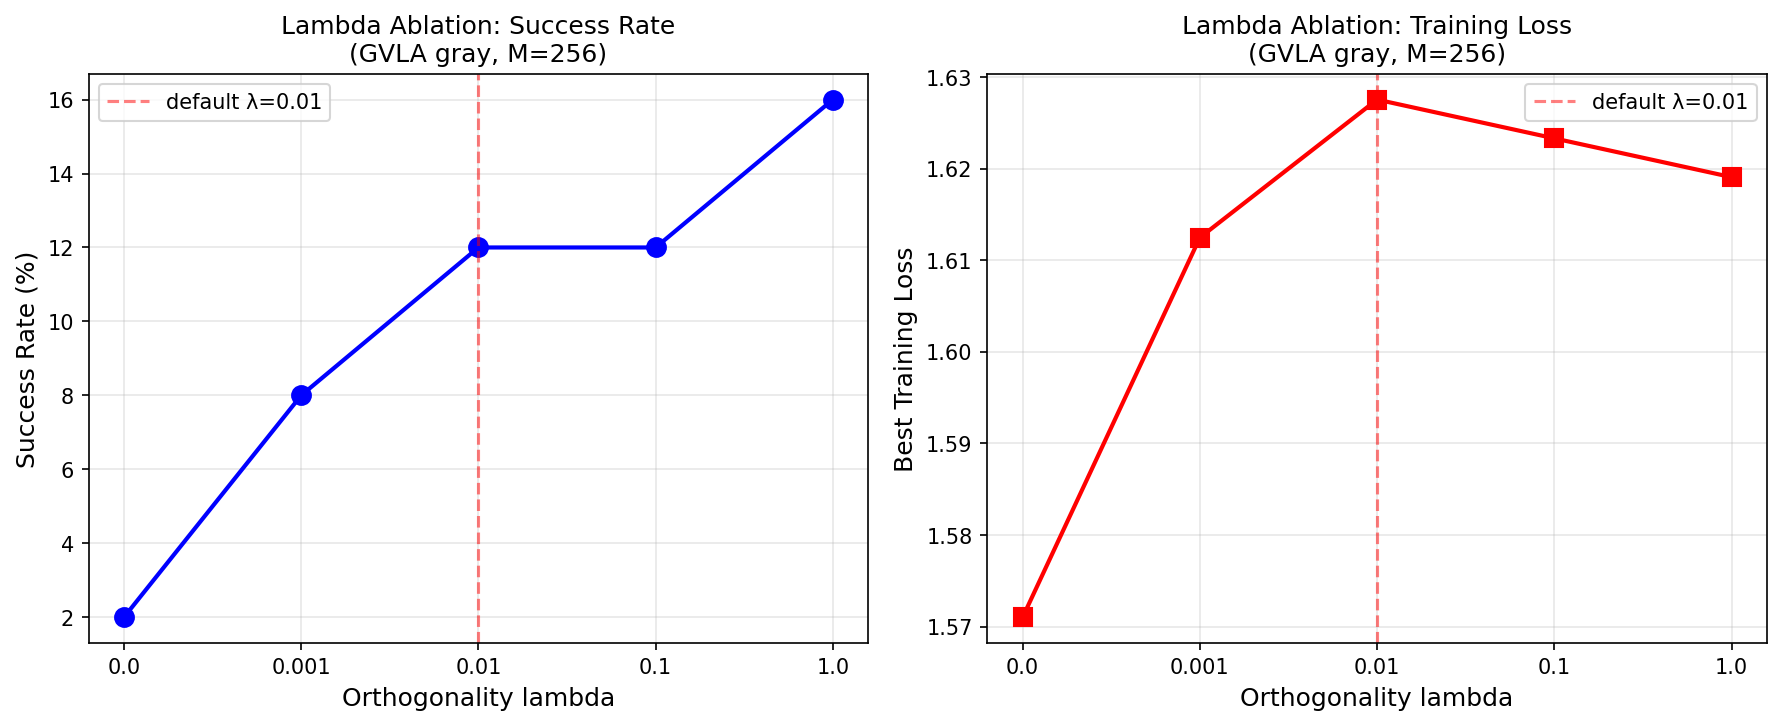
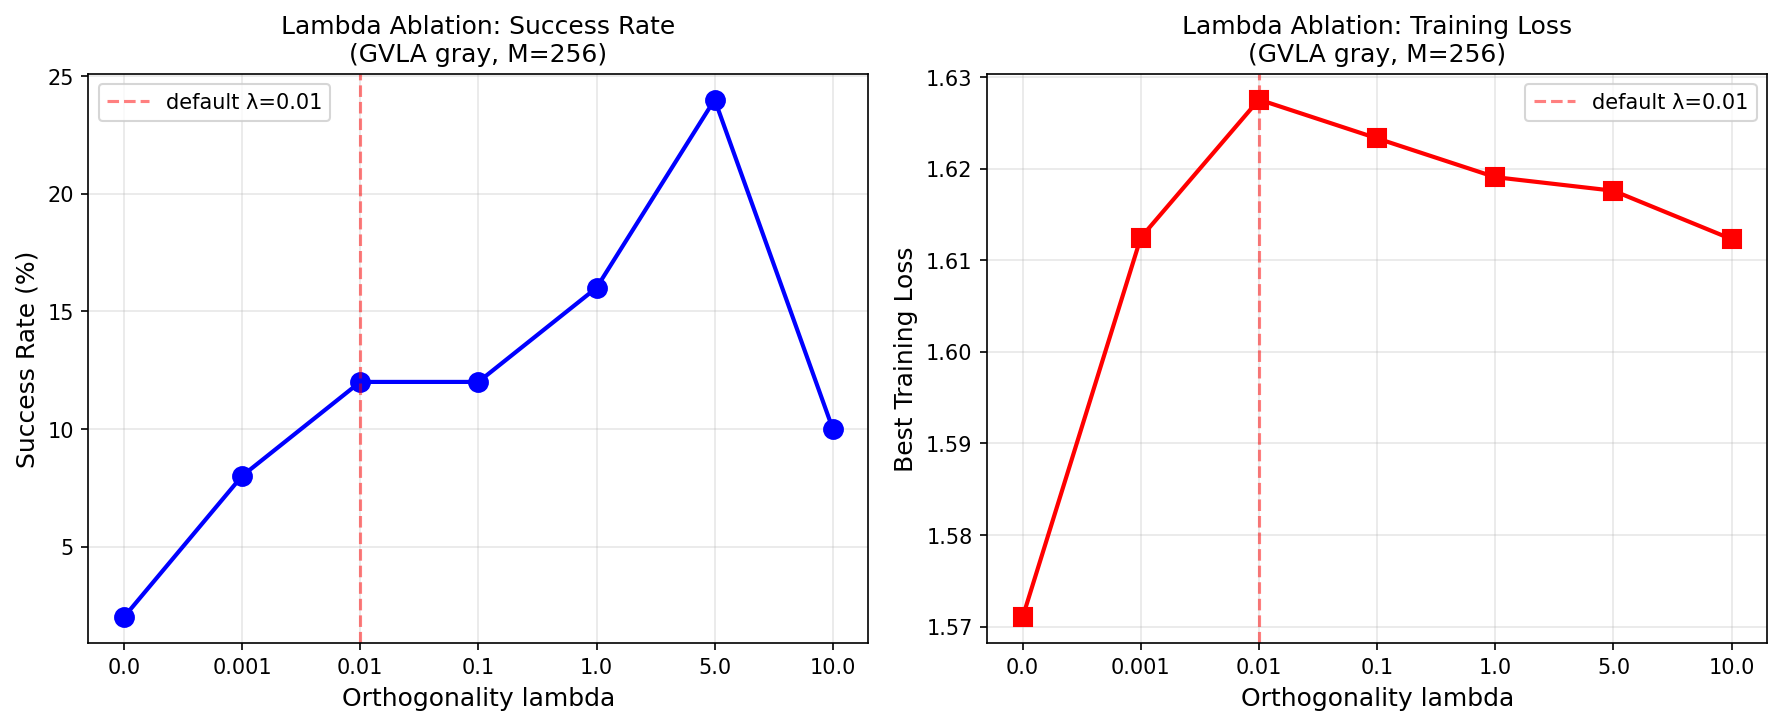
Add precision validation summary and lambda updates

diff --git a/experiments/robosuite_quantization_study.py b/experiments/robosuite_quantization_study.py
@@ -416,6 +416,35 @@ class ScriptedPickPlaceCanPolicy:
         return action
 
 
+class ScriptedPickPlaceCanPrecisionPolicy(ScriptedPickPlaceCanPolicy):
+    """
+    A stricter PickPlace controller that aims for a much tighter final placement.
+
+    The main differences from the default can policy are:
+      - smaller XY tolerances during transport / placement
+      - lower final placement height to force finer corrections near the bin
+      - gentler final controller gain to avoid overshooting the target area
+    """
+
+    def __init__(self,
+                 transport_xy_thresh: float = 0.012,
+                 place_height: float = 0.07,
+                 kp_place: float = 6.0):
+        super().__init__(
+            hover_height=0.14,
+            bin_hover_height=0.20,
+            place_height=place_height,
+            grasp_xy_thresh=0.018,
+            grasp_z_thresh=0.012,
+            place_xy_thresh=transport_xy_thresh,
+            lift_delta=0.16,
+            grasp_steps=12,
+            release_steps=10,
+            kp_move=10.0,
+            kp_place=kp_place,
+        )
+
+
 # =========================================================
 # Quantisation Utilities
 # =========================================================
@@ -499,22 +528,57 @@ def decode_action(action: np.ndarray, n_bins,
 # Rollout & Success Rate
 # =========================================================
 
-def make_policy(task: str):
+def make_policy(task: str,
+                precision_transport_xy_thresh: float = 0.012,
+                precision_place_height: float = 0.07,
+                precision_kp_place: float = 6.0):
     if task == "lift":
         return ScriptedLiftPolicy()
     if task == "nut_assembly_square":
         return ScriptedNutAssemblySquarePolicy()
     if task == "pick_place_can":
         return ScriptedPickPlaceCanPolicy()
+    if task == "pick_place_can_precision":
+        return ScriptedPickPlaceCanPrecisionPolicy(
+            transport_xy_thresh=precision_transport_xy_thresh,
+            place_height=precision_place_height,
+            kp_place=precision_kp_place,
+        )
     raise ValueError(f"Unsupported task: {task}")
 
 
+def is_success(env, obs: dict, reward_accum: float, task: str, policy,
+               precision_xy_tol: float = 0.018,
+               precision_release_clearance: float = 0.07) -> bool:
+    if task != "pick_place_can_precision":
+        return reward_accum > 0
+
+    obj_pos = np.array(obs["Can_pos"])
+    target_bin = np.array(env.target_bin_placements[env.object_id])
+    eef_pos = np.array(obs["robot0_eef_pos"])
+
+    xy_err = np.linalg.norm(obj_pos[:2] - target_bin[:2])
+    eef_clear = eef_pos[2] - obj_pos[2]
+
+    # Precision success is stricter than the default task: the object must
+    # have been successfully placed in the bin and end up close to the bin
+    # center in XY after the gripper has retreated.
+    return (
+        reward_accum > 0
+        and xy_err < precision_xy_tol
+        and eef_clear > precision_release_clearance
+        and policy.phase in ("retreat", "done")
+    )
+
+
 def run_one_rollout(env, policy,
-                    n_bins, max_steps: int, seed: int,
+                    n_bins, max_steps: int, seed: int, task: str,
                     decode_mode: str = "gvla",
                     ar_token_bins: int = 256,
                     token_latency_ms: float = 0.0,
-                    token_error_prob: float = 0.0) -> bool:
+                    token_error_prob: float = 0.0,
+                    precision_xy_tol: float = 0.018,
+                    precision_release_clearance: float = 0.07) -> bool:
     """
     Run one episode.  n_bins=None → continuous (no quantisation).
     Returns True if cube lifted (reward > 0).
@@ -536,13 +600,21 @@ def run_one_rollout(env, policy,
         for _ in range(stale_steps):
             obs, reward, done, _ = env.step(prev_action)
             reward_accum += reward
-            if done or reward_accum > 0:
+            if done or is_success(
+                env, obs, reward_accum, task, policy,
+                precision_xy_tol=precision_xy_tol,
+                precision_release_clearance=precision_release_clearance,
+            ):
                 return True
 
         obs, reward, done, _ = env.step(action)
         reward_accum += reward
         prev_action = action
-        if done or reward_accum > 0:
+        if done or is_success(
+            env, obs, reward_accum, task, policy,
+            precision_xy_tol=precision_xy_tol,
+            precision_release_clearance=precision_release_clearance,
+        ):
             return True
 
     # A few extra "hold" steps in case cube is still rising
@@ -554,10 +626,18 @@ def run_one_rollout(env, policy,
             else:
                 hold_q = hold
             obs, reward, done, _ = env.step(hold_q)
-            if reward > 0:
+            if is_success(
+                env, obs, reward, task, policy,
+                precision_xy_tol=precision_xy_tol,
+                precision_release_clearance=precision_release_clearance,
+            ):
                 return True
 
-    return reward_accum > 0
+    return is_success(
+        env, obs, reward_accum, task, policy,
+        precision_xy_tol=precision_xy_tol,
+        precision_release_clearance=precision_release_clearance,
+    )
 
 
 def measure_success_rate(env, task: str, n_bins, n_rollouts: int,
@@ -565,17 +645,29 @@ def measure_success_rate(env, task: str, n_bins, n_rollouts: int,
                          decode_mode: str = "gvla",
                          ar_token_bins: int = 256,
                          token_latency_ms: float = 0.0,
-                         token_error_prob: float = 0.0) -> float:
+                         token_error_prob: float = 0.0,
+                         precision_xy_tol: float = 0.018,
+                         precision_release_clearance: float = 0.07,
+                         precision_transport_xy_thresh: float = 0.012,
+                         precision_place_height: float = 0.07,
+                         precision_kp_place: float = 6.0) -> float:
     """Success rate over n_rollouts seeds."""
     successes = 0
     for seed in range(n_rollouts):
-        policy = make_policy(task)
+        policy = make_policy(
+            task,
+            precision_transport_xy_thresh=precision_transport_xy_thresh,
+            precision_place_height=precision_place_height,
+            precision_kp_place=precision_kp_place,
+        )
         if run_one_rollout(
-            env, policy, n_bins, max_steps, seed,
+            env, policy, n_bins, max_steps, seed, task,
             decode_mode=decode_mode,
             ar_token_bins=ar_token_bins,
             token_latency_ms=token_latency_ms,
             token_error_prob=token_error_prob,
+            precision_xy_tol=precision_xy_tol,
+            precision_release_clearance=precision_release_clearance,
         ):
             successes += 1
     return successes / n_rollouts
@@ -758,7 +850,7 @@ def plot_results(success_results: dict, latency_results: dict,
 def main():
     parser = argparse.ArgumentParser(description="Robosuite Quantisation Study")
     parser.add_argument("--task", type=str, default="lift",
-                        choices=["lift", "nut_assembly_square", "pick_place_can"],
+                        choices=["lift", "nut_assembly_square", "pick_place_can", "pick_place_can_precision"],
                         help="Robosuite task to evaluate")
     parser.add_argument("--decode_mode", type=str, default="gvla",
                         choices=["gvla", "ar_tokens"],
@@ -784,6 +876,21 @@ def main():
                         help="Skip latency measurement (env-only run)")
     parser.add_argument("--skip_rollout", action="store_true",
                         help="Skip rollout measurement (latency-only run)")
+    parser.add_argument("--precision_level", type=str, default="easy",
+                        choices=["easy", "medium", "hard", "very_hard", "custom"],
+                        help="Preset difficulty for pick_place_can_precision")
+    parser.add_argument("--precision_xy_tol", type=float, default=None,
+                        help="Final XY tolerance for precision success; overrides preset when set")
+    parser.add_argument("--precision_release_clearance", type=float, default=None,
+                        help="Required gripper retreat clearance for precision success")
+    parser.add_argument("--precision_transport_xy_thresh", type=float, default=None,
+                        help="Intermediate transport / placement XY threshold for the precision policy")
+    parser.add_argument("--precision_place_height", type=float, default=None,
+                        help="Final placement height target for the precision policy")
+    parser.add_argument("--precision_kp_place", type=float, default=None,
+                        help="Final placement proportional gain for the precision policy")
+    parser.add_argument("--bins", type=str, nargs="+", default=None,
+                        help="Optional subset of bins to evaluate, e.g. inf 256 1024 2048")
     args = parser.parse_args()
 
     save_dir = Path(args.save_dir)
@@ -793,11 +900,42 @@ def main():
     print(f"Task: {args.task}")
     print(f"Decode mode: {args.decode_mode}")
 
+    precision_presets = {
+        "easy": dict(xy_tol=0.018, release_clearance=0.07, transport_xy_thresh=0.012, place_height=0.07, kp_place=6.0),
+        "medium": dict(xy_tol=0.014, release_clearance=0.075, transport_xy_thresh=0.010, place_height=0.068, kp_place=5.6),
+        "hard": dict(xy_tol=0.010, release_clearance=0.08, transport_xy_thresh=0.008, place_height=0.066, kp_place=5.0),
+        "very_hard": dict(xy_tol=0.006, release_clearance=0.085, transport_xy_thresh=0.006, place_height=0.064, kp_place=4.5),
+        "custom": dict(xy_tol=0.018, release_clearance=0.07, transport_xy_thresh=0.012, place_height=0.07, kp_place=6.0),
+    }
+    precision_cfg = dict(precision_presets[args.precision_level])
+    if args.precision_xy_tol is not None:
+        precision_cfg["xy_tol"] = args.precision_xy_tol
+    if args.precision_release_clearance is not None:
+        precision_cfg["release_clearance"] = args.precision_release_clearance
+    if args.precision_transport_xy_thresh is not None:
+        precision_cfg["transport_xy_thresh"] = args.precision_transport_xy_thresh
+    if args.precision_place_height is not None:
+        precision_cfg["place_height"] = args.precision_place_height
+    if args.precision_kp_place is not None:
+        precision_cfg["kp_place"] = args.precision_kp_place
+
     # ---- Bins to sweep ----
-    if args.decode_mode == "ar_tokens":
+    evaluate_continuous = True
+    if args.bins is not None:
+        requested_bins = []
+        evaluate_continuous = False
+        for token in args.bins:
+            if token.lower() in {"inf", "continuous"}:
+                evaluate_continuous = True
+            else:
+                requested_bins.append(int(token))
+        M_bins_sweep = requested_bins
+    elif args.decode_mode == "ar_tokens":
         M_bins_sweep = [args.ar_token_bins]
     elif args.task == "pick_place_can":
         M_bins_sweep = [32, 48, 64, 96, 128]
+    elif args.task == "pick_place_can_precision":
+        M_bins_sweep = [32, 48, 64, 96, 128, 192, 256, 384, 512, 768, 1024]
     else:
         M_bins_sweep = [4, 8, 16, 32, 64, 128, 256, 512, 1024]
 
@@ -831,7 +969,7 @@ def main():
             env_name = "Lift"
         elif args.task == "nut_assembly_square":
             env_name = "NutAssemblySquare"
-        elif args.task == "pick_place_can":
+        elif args.task in ("pick_place_can", "pick_place_can_precision"):
             env_name = "PickPlace"
             env_kwargs.update(single_object_mode=2, object_type="can")
         else:
@@ -840,16 +978,22 @@ def main():
         env = suite.make(env_name, **env_kwargs)
 
         # Continuous baseline
-        print(f"\n[Continuous — no quantisation]  ({args.n_rollouts} rollouts)")
-        sr = measure_success_rate(
-            env, args.task, None, args.n_rollouts, args.max_steps,
-            decode_mode=args.decode_mode,
-            ar_token_bins=args.ar_token_bins,
-            token_latency_ms=args.token_latency_ms,
-            token_error_prob=args.token_error_prob,
-        )
-        success_results["inf"] = sr
-        print(f"  → Success rate: {sr * 100:.1f}%")
+        if evaluate_continuous:
+            print(f"\n[Continuous — no quantisation]  ({args.n_rollouts} rollouts)")
+            sr = measure_success_rate(
+                env, args.task, None, args.n_rollouts, args.max_steps,
+                decode_mode=args.decode_mode,
+                ar_token_bins=args.ar_token_bins,
+                token_latency_ms=args.token_latency_ms,
+                token_error_prob=args.token_error_prob,
+                precision_xy_tol=precision_cfg["xy_tol"],
+                precision_release_clearance=precision_cfg["release_clearance"],
+                precision_transport_xy_thresh=precision_cfg["transport_xy_thresh"],
+                precision_place_height=precision_cfg["place_height"],
+                precision_kp_place=precision_cfg["kp_place"],
+            )
+            success_results["inf"] = sr
+            print(f"  → Success rate: {sr * 100:.1f}%")
 
         # Quantised sweep
         for M in M_bins_sweep:
@@ -862,6 +1006,11 @@ def main():
                 ar_token_bins=args.ar_token_bins,
                 token_latency_ms=args.token_latency_ms,
                 token_error_prob=args.token_error_prob,
+                precision_xy_tol=precision_cfg["xy_tol"],
+                precision_release_clearance=precision_cfg["release_clearance"],
+                precision_transport_xy_thresh=precision_cfg["transport_xy_thresh"],
+                precision_place_height=precision_cfg["place_height"],
+                precision_kp_place=precision_cfg["kp_place"],
             )
             success_results[M] = sr
             print(f"  → Success rate: {sr * 100:.1f}%")

diff --git a/experiments/results/bc_study/EXPERIMENTS.md b/experiments/results/bc_study/EXPERIMENTS.md
@@ -121,7 +121,7 @@ action = (bin_idx + 0.5) / M * 2 - 1
 | 2 | Full mode — GPU (A100) | epochs=200, n_rollouts=50 | ✅ 완료 |
 | 3 | Gray Code Ablation — GPU (A100) | epochs=200, n_rollouts=50 | ✅ 완료 |
 | 4 | Batch × M Latency Sweep — GPU (A100) | batch∈{1,8,32,128,512,1024}, M∈{8…65536} | ✅ 완료 |
-| 5 | λ Ablation (ortho reg) — GPU (A100) | λ∈{0,0.001,0.01,0.1,1.0}, M=256, gray | ✅ 완료 |
+| 5 | λ Ablation (ortho reg) — GPU (A100) | λ∈{0,0.001,0.01,0.1,1.0,5.0,10.0}, M=256, gray | ✅ 완료 |
 
 > **Exp 2 vs Exp 3 숫자가 다른 이유:**
 > 실험 3은 실험 2의 체크포인트를 재사용한 게 아니라 **처음부터 전체를 다시 학습했다.**
@@ -366,7 +366,9 @@ L_ortho = sum_{d=1}^{7} ||W_d W_d^T - I||_F^2
 | 0.001 | 8% | 1.6125 | 약한 regularization |
 | 0.01 | 12% | 1.6275 | 현재 default |
 | 0.1 | 12% | 1.6233 | default와 동일 |
-| 1.0 | **16%** | 1.6191 | 가장 좋음 |
+| 1.0 | 16% | 1.6191 | 중간 강도 regularization |
+| 5.0 | **24%** | 1.6176 | 이 ablation의 best |
+| 10.0 | 10% | 1.6123 | 너무 강해서 다시 성능 하락 |
 
 ### 핵심 발견
 
@@ -375,16 +377,34 @@ L_ortho = sum_{d=1}^{7} ||W_d W_d^T - I||_F^2
 regularization 없으면 W의 각 행이 학습 중 같은 방향으로 collapse한다.
 k개 비트가 전부 동일한 정보를 인코딩하게 되어 2^k 개 셀이 아닌 사실상 2개 셀만 사용하는 것과 같아진다.
 
-**λ=1.0이 best지만 통계적으로 아직 약함**
+**중간 강도 regularization에서 sweet spot이 나타난다**
 
-16% = 8/50, 12% = 6/50 → 2번 차이. n=50으로는 유의미한 차이라고 보기 어렵다.
-트렌드(λ 클수록 좋아지는 경향)는 의미 있지만 "λ=1.0이 최적"이라는 주장은 아직 약하다.
+성능은 λ가 커질수록 단조롭게 좋아지지 않는다.
+`0.0 → 2%`, `0.001 → 8%`, `0.01/0.1 → 12%`, `1.0 → 16%`, `5.0 → 24%`까지 올라가다가
+`10.0 → 10%`로 다시 떨어진다.
+
+즉 이 조건에서는 orthogonality regularization이 도움이 되지만, 너무 약해도 부족하고 너무 강해도 과도하다.
+현재 이 ablation에서의 best operating point는 `λ=5.0`이다.
+
+**하지만 default를 바로 바꾸기엔 아직 근거가 좁다**
+
+이 결과는 `Lift + M=256 + gray + n_rollouts=50` 조건에서 얻은 단일 ablation이다.
+따라서 논문/보고용 best setting으로는 `λ=5.0`을 채택할 수 있지만,
+코드 전역 default를 `0.01 → 5.0`으로 즉시 바꾸기엔 아직 검증 범위가 좁다.
+실무적으로는:
+
+- 코드 default는 유지
+- 실험 best setting은 `λ=5.0`으로 명시
+- 필요하면 `M=128/1024`에서도 추가 확인
 
 **training loss vs success rate 역설**
 
 λ=0일 때 training loss가 가장 낮다(1.571).
 그러나 success rate는 최악(2%). orthogonality 없이 loss만 낮추면 W가 collapse해서
 rollout에서는 엉터리 action을 출력한다.
+
+반대로 `λ=10.0`은 best_loss가 비교적 낮지만 success rate는 다시 10%로 떨어진다.
+즉, optimization loss만으로 제어 성능을 예측할 수 없고, 적절한 geometric regularization strength가 따로 존재한다.
 
 ### 논문에 쓸 수 있는 표현
 
@@ -395,8 +415,9 @@ rollout에서는 엉터리 action을 출력한다.
 
 ### 남은 과제
 
-- [ ] λ > 1.0 (예: 5.0, 10.0) 테스트 — peak가 어디인지
-- [ ] n_rollouts=200 이상으로 λ=0.01 vs 1.0 재확인
+- [x] λ > 1.0 (예: 5.0, 10.0) 테스트 — peak 확인
+- [ ] n_rollouts=200 이상으로 λ=0.01 vs 5.0 재확인
+- [ ] M=128 / 1024에서도 `λ=5.0`의 일반성 확인
 
 ---
 

diff --git a/experiments/results/precision_custom25_200roll_core.md b/experiments/results/precision_custom25_200roll_core.md
@@ -1,0 +1,22 @@
+# Precision custom2.5 (200 rollouts)
+
+Task: `pick_place_can_precision`
+
+Config:
+- `xy_tol=0.015`
+- `release_clearance=0.075`
+- `transport_xy_thresh=0.01`
+- `place_height=0.068`
+- `kp_place=5.4`
+
+| Setting | Successes | Rate | 95% CI |
+|---|---:|---:|---:|
+| continuous | 107/200 | 53.5% | [46.6, 60.3] |
+| 256 | 24/200 | 12.0% | [8.2, 17.2] |
+| 1024 | 86/200 | 43.0% | [36.3, 49.9] |
+| 2048 | 94/200 | 47.0% | [40.2, 53.9] |
+
+Key message:
+- `256` is clearly too low.
+- `1024` and `2048` recover strongly.
+- The relationship to `continuous` is visible in the same table.
